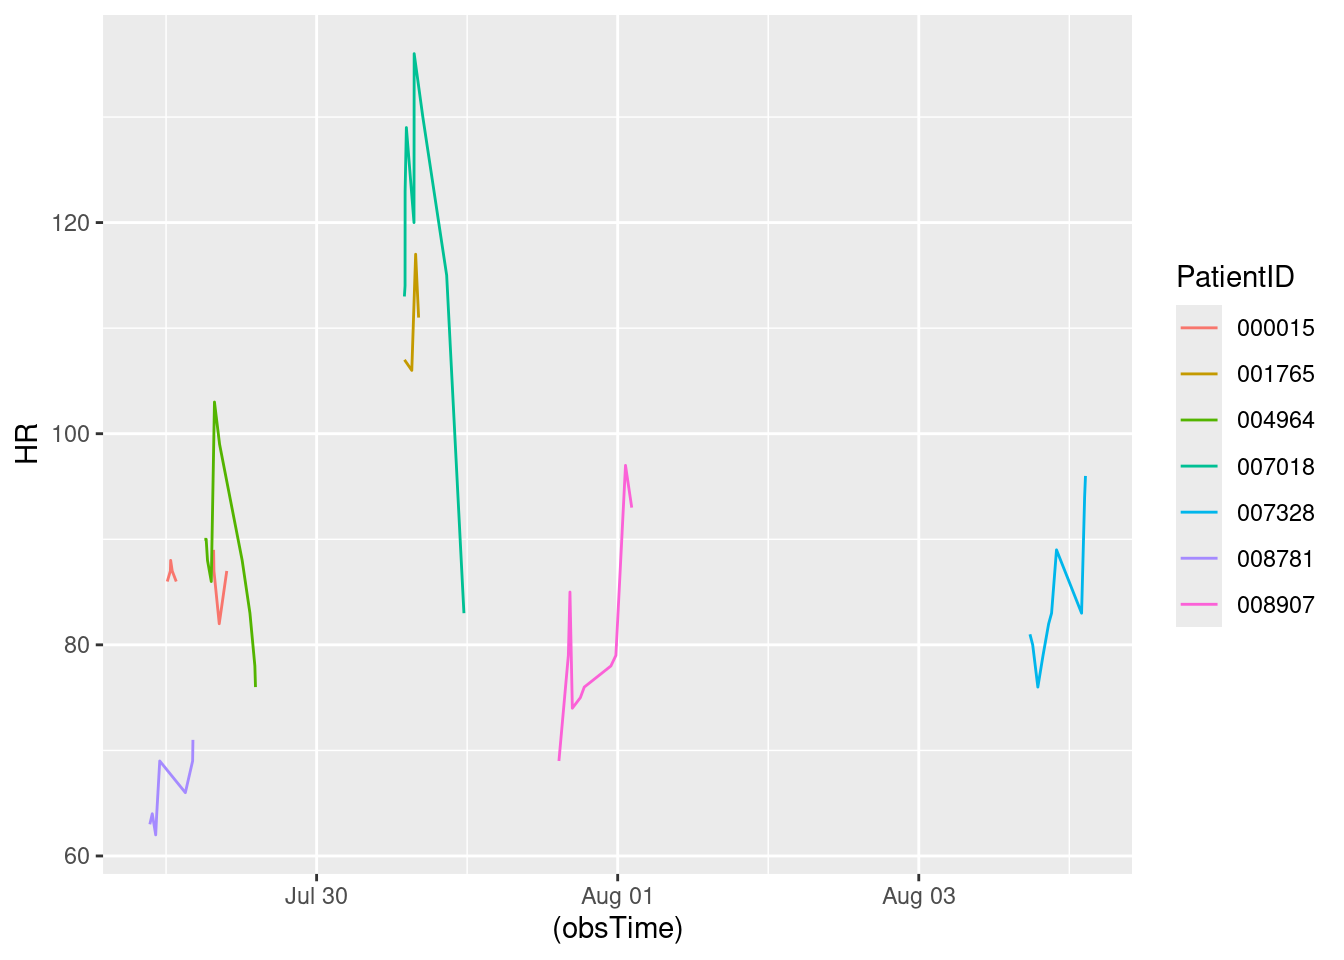
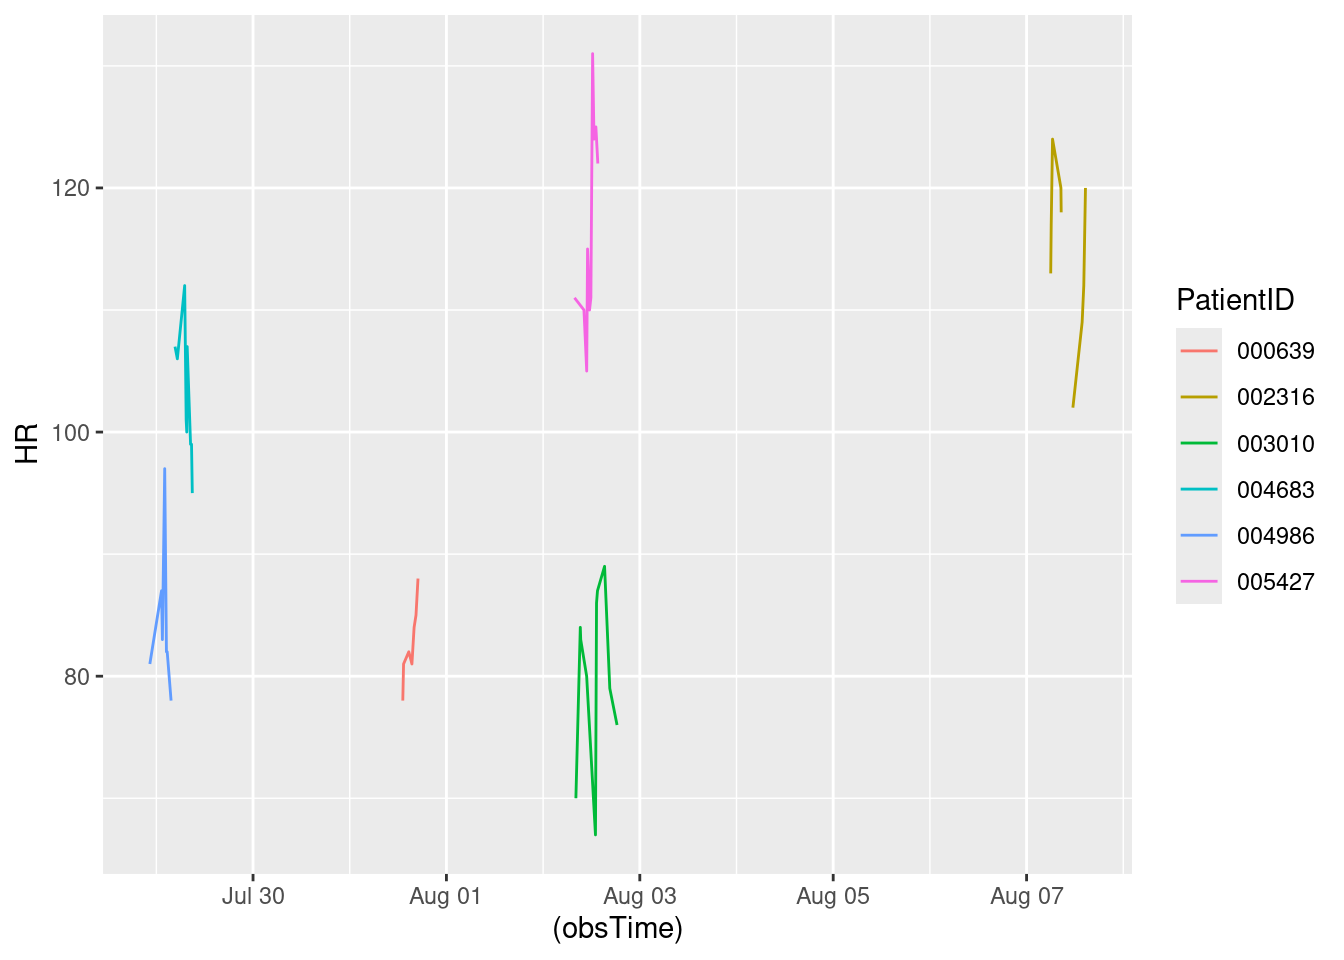
Updated report

diff --git a/HW7.html b/HW7.html
@@ -152,7 +152,7 @@ The following object is masked from 'package:purrr':
 </div>
 <div class="sourceCode cell-code" id="cb8"><pre class="sourceCode r code-with-copy"><code class="sourceCode r"><span id="cb8-1"><a href="#cb8-1" aria-hidden="true" tabindex="-1"></a><span class="fu">toc</span>()</span></code><button title="Copy to Clipboard" class="code-copy-button"><i class="bi"></i></button></pre></div>
 <div class="cell-output cell-output-stdout">
-<pre><code>15.933 sec elapsed</code></pre>
+<pre><code>17.711 sec elapsed</code></pre>
 </div>
 <div class="sourceCode cell-code" id="cb10"><pre class="sourceCode r code-with-copy"><code class="sourceCode r"><span id="cb10-1"><a href="#cb10-1" aria-hidden="true" tabindex="-1"></a><span class="fu">tic</span>()</span>
 <span id="cb10-2"><a href="#cb10-2" aria-hidden="true" tabindex="-1"></a>test1<span class="ot">=</span><span class="fu">makeSepsisDataset</span>(<span class="at">n=</span><span class="dv">50</span>,<span class="at">read_fn =</span> <span class="st">"read_delim"</span>)</span>
@@ -162,7 +162,7 @@ The following object is masked from 'package:purrr':
 </div>
 <div class="sourceCode cell-code" id="cb12"><pre class="sourceCode r code-with-copy"><code class="sourceCode r"><span id="cb12-1"><a href="#cb12-1" aria-hidden="true" tabindex="-1"></a><span class="fu">toc</span>()</span></code><button title="Copy to Clipboard" class="code-copy-button"><i class="bi"></i></button></pre></div>
 <div class="cell-output cell-output-stdout">
-<pre><code>11.175 sec elapsed</code></pre>
+<pre><code>9.018 sec elapsed</code></pre>
 </div>
 <div class="sourceCode cell-code" id="cb14"><pre class="sourceCode r code-with-copy"><code class="sourceCode r"><span id="cb14-1"><a href="#cb14-1" aria-hidden="true" tabindex="-1"></a><span class="fu">tic</span>()</span>
 <span id="cb14-2"><a href="#cb14-2" aria-hidden="true" tabindex="-1"></a>test1<span class="ot">=</span><span class="fu">makeSepsisDataset</span>(<span class="at">n=</span><span class="dv">100</span>,<span class="at">read_fn =</span> <span class="st">"fread"</span>)</span>
@@ -172,7 +172,7 @@ The following object is masked from 'package:purrr':
 </div>
 <div class="sourceCode cell-code" id="cb16"><pre class="sourceCode r code-with-copy"><code class="sourceCode r"><span id="cb16-1"><a href="#cb16-1" aria-hidden="true" tabindex="-1"></a><span class="fu">toc</span>()</span></code><button title="Copy to Clipboard" class="code-copy-button"><i class="bi"></i></button></pre></div>
 <div class="cell-output cell-output-stdout">
-<pre><code>27.548 sec elapsed</code></pre>
+<pre><code>32.165 sec elapsed</code></pre>
 </div>
 <div class="sourceCode cell-code" id="cb18"><pre class="sourceCode r code-with-copy"><code class="sourceCode r"><span id="cb18-1"><a href="#cb18-1" aria-hidden="true" tabindex="-1"></a><span class="fu">tic</span>()</span>
 <span id="cb18-2"><a href="#cb18-2" aria-hidden="true" tabindex="-1"></a>test1<span class="ot">=</span><span class="fu">makeSepsisDataset</span>(<span class="at">n=</span><span class="dv">100</span>,<span class="at">read_fn =</span> <span class="st">"read_delim"</span>)</span>
@@ -182,7 +182,7 @@ The following object is masked from 'package:purrr':
 </div>
 <div class="sourceCode cell-code" id="cb20"><pre class="sourceCode r code-with-copy"><code class="sourceCode r"><span id="cb20-1"><a href="#cb20-1" aria-hidden="true" tabindex="-1"></a><span class="fu">toc</span>()</span></code><button title="Copy to Clipboard" class="code-copy-button"><i class="bi"></i></button></pre></div>
 <div class="cell-output cell-output-stdout">
-<pre><code>22.013 sec elapsed</code></pre>
+<pre><code>16.296 sec elapsed</code></pre>
 </div>
 <div class="sourceCode cell-code" id="cb22"><pre class="sourceCode r code-with-copy"><code class="sourceCode r"><span id="cb22-1"><a href="#cb22-1" aria-hidden="true" tabindex="-1"></a><span class="fu">tic</span>()</span>
 <span id="cb22-2"><a href="#cb22-2" aria-hidden="true" tabindex="-1"></a>test1<span class="ot">=</span><span class="fu">makeSepsisDataset</span>(<span class="at">n=</span><span class="dv">500</span>,<span class="at">read_fn =</span> <span class="st">"fread"</span>)</span>
@@ -192,7 +192,7 @@ The following object is masked from 'package:purrr':
 </div>
 <div class="sourceCode cell-code" id="cb24"><pre class="sourceCode r code-with-copy"><code class="sourceCode r"><span id="cb24-1"><a href="#cb24-1" aria-hidden="true" tabindex="-1"></a><span class="fu">toc</span>()</span></code><button title="Copy to Clipboard" class="code-copy-button"><i class="bi"></i></button></pre></div>
 <div class="cell-output cell-output-stdout">
-<pre><code>137.456 sec elapsed</code></pre>
+<pre><code>153.811 sec elapsed</code></pre>
 </div>
 <div class="sourceCode cell-code" id="cb26"><pre class="sourceCode r code-with-copy"><code class="sourceCode r"><span id="cb26-1"><a href="#cb26-1" aria-hidden="true" tabindex="-1"></a><span class="fu">tic</span>()</span>
 <span id="cb26-2"><a href="#cb26-2" aria-hidden="true" tabindex="-1"></a>test1<span class="ot">=</span><span class="fu">makeSepsisDataset</span>(<span class="at">n=</span><span class="dv">500</span>,<span class="at">read_fn =</span> <span class="st">"read_delim"</span>)</span>
@@ -202,7 +202,7 @@ The following object is masked from 'package:purrr':
 </div>
 <div class="sourceCode cell-code" id="cb28"><pre class="sourceCode r code-with-copy"><code class="sourceCode r"><span id="cb28-1"><a href="#cb28-1" aria-hidden="true" tabindex="-1"></a><span class="fu">toc</span>()</span></code><button title="Copy to Clipboard" class="code-copy-button"><i class="bi"></i></button></pre></div>
 <div class="cell-output cell-output-stdout">
-<pre><code>109.927 sec elapsed</code></pre>
+<pre><code>81.092 sec elapsed</code></pre>
 </div>
 </div>
 <p>Problem 3: Speed reading</p>
@@ -244,7 +244,7 @@ dttm (1): obsTime
 <div class="sourceCode cell-code" id="cb35"><pre class="sourceCode r code-with-copy"><code class="sourceCode r"><span id="cb35-1"><a href="#cb35-1" aria-hidden="true" tabindex="-1"></a><span class="co">#Sys.Date()</span></span>
 <span id="cb35-2"><a href="#cb35-2" aria-hidden="true" tabindex="-1"></a><span class="fu">Sys.time</span>()</span></code><button title="Copy to Clipboard" class="code-copy-button"><i class="bi"></i></button></pre></div>
 <div class="cell-output cell-output-stdout">
-<pre><code>[1] "2024-07-28 21:24:49 UTC"</code></pre>
+<pre><code>[1] "2024-07-28 22:23:19 UTC"</code></pre>
 </div>
 <div class="sourceCode cell-code" id="cb37"><pre class="sourceCode r code-with-copy"><code class="sourceCode r"><span id="cb37-1"><a href="#cb37-1" aria-hidden="true" tabindex="-1"></a>dfnew<span class="ot">=</span>df <span class="sc">%&gt;%</span><span class="fu">subset</span>(SepsisLabel<span class="sc">==</span><span class="dv">1</span>)</span>
 <span id="cb37-2"><a href="#cb37-2" aria-hidden="true" tabindex="-1"></a></span>
@@ -259,26 +259,21 @@ dttm (1): obsTime
 <span id="cb37-11"><a href="#cb37-11" aria-hidden="true" tabindex="-1"></a></span>
 <span id="cb37-12"><a href="#cb37-12" aria-hidden="true" tabindex="-1"></a><span class="fu">print</span>(res)</span></code><button title="Copy to Clipboard" class="code-copy-button"><i class="bi"></i></button></pre></div>
 <div class="cell-output cell-output-stdout">
-<pre><code># A tibble: 7 × 7
-# Groups:   PatientID [7]
+<pre><code># A tibble: 6 × 7
+# Groups:   PatientID [6]
   PatientID ICULOS    HR  Temp  Resp SepsisLabel obsTime            
   &lt;chr&gt;      &lt;int&gt; &lt;int&gt; &lt;dbl&gt; &lt;int&gt;       &lt;int&gt; &lt;dttm&gt;             
-1 000015        13    87  36.7    13           1 2024-07-29 09:40:31
-2 001765        43   111  36.3    21           1 2024-07-30 16:15:42
-3 004964        18    76  NA      18           1 2024-07-29 14:15:17
-4 007018        51    83  NA       8           1 2024-07-30 23:29:07
-5 007328       150    96  NA      17           1 2024-08-04 02:34:32
-6 008781         7    71  NA      18           1 2024-07-29 04:16:58
-7 008907        77    93  NA      13           1 2024-08-01 02:14:16</code></pre>
+1 000639        67    88  NA      21           1 2024-07-31 16:56:38
+2 002316       233   120  NA      21           1 2024-08-07 14:36:57
+3 003010       116    76  36.5    19           1 2024-08-02 18:20:57
+4 004683        15    95  35.8    18           1 2024-07-29 08:55:30
+5 004986         6    78  NA      10           1 2024-07-29 03:39:25
+6 005427       112   122  38.9    34           1 2024-08-02 13:34:52</code></pre>
 </div>
 </div>
 <div class="cell">
 <div class="sourceCode cell-code" id="cb39"><pre class="sourceCode r code-with-copy"><code class="sourceCode r"><span id="cb39-1"><a href="#cb39-1" aria-hidden="true" tabindex="-1"></a>dfnew <span class="sc">%&gt;%</span></span>
 <span id="cb39-2"><a href="#cb39-2" aria-hidden="true" tabindex="-1"></a>  <span class="fu">ggplot</span>()<span class="sc">+</span><span class="fu">geom_line</span>(<span class="fu">aes</span>(<span class="at">y=</span>HR,<span class="at">x=</span>(obsTime),<span class="at">color=</span>PatientID))</span></code><button title="Copy to Clipboard" class="code-copy-button"><i class="bi"></i></button></pre></div>
-<div class="cell-output cell-output-stderr">
-<pre><code>Warning: Removed 6 rows containing missing values or values outside the scale range
-(`geom_line()`).</code></pre>
-</div>
 <div class="cell-output-display">
 <div>
 <figure class="figure">
@@ -291,7 +286,7 @@ dttm (1): obsTime
 <section id="display-the-most-recent-data" class="level2">
 <h2 class="anchored" data-anchor-id="display-the-most-recent-data">Display the most recent data</h2>
 <div class="cell">
-<div class="sourceCode cell-code" id="cb41"><pre class="sourceCode r code-with-copy"><code class="sourceCode r"><span id="cb41-1"><a href="#cb41-1" aria-hidden="true" tabindex="-1"></a>most_recent_data</span></code><button title="Copy to Clipboard" class="code-copy-button"><i class="bi"></i></button></pre></div>
+<div class="sourceCode cell-code" id="cb40"><pre class="sourceCode r code-with-copy"><code class="sourceCode r"><span id="cb40-1"><a href="#cb40-1" aria-hidden="true" tabindex="-1"></a>most_recent_data</span></code><button title="Copy to Clipboard" class="code-copy-button"><i class="bi"></i></button></pre></div>
 <div class="cell-output cell-output-stdout">
 <pre><code># A tibble: 50 × 7
 # Groups:   PatientID [50]
@@ -314,32 +309,32 @@ dttm (1): obsTime
 <section id="calculate-the-difference" class="level2">
 <h2 class="anchored" data-anchor-id="calculate-the-difference">Calculate the difference</h2>
 <div class="cell">
-<div class="sourceCode cell-code" id="cb43"><pre class="sourceCode r code-with-copy"><code class="sourceCode r"><span id="cb43-1"><a href="#cb43-1" aria-hidden="true" tabindex="-1"></a><span class="fu">library</span>(dplyr)</span>
-<span id="cb43-2"><a href="#cb43-2" aria-hidden="true" tabindex="-1"></a><span class="fu">library</span>(tidyr)</span>
-<span id="cb43-3"><a href="#cb43-3" aria-hidden="true" tabindex="-1"></a><span class="fu">library</span>(knitr)</span>
-<span id="cb43-4"><a href="#cb43-4" aria-hidden="true" tabindex="-1"></a>get_observation_data <span class="ot">&lt;-</span> <span class="cf">function</span>(data, n, column_suffix) {</span>
-<span id="cb43-5"><a href="#cb43-5" aria-hidden="true" tabindex="-1"></a>  data <span class="sc">%&gt;%</span></span>
-<span id="cb43-6"><a href="#cb43-6" aria-hidden="true" tabindex="-1"></a>    <span class="fu">group_by</span>(PatientID) <span class="sc">%&gt;%</span></span>
-<span id="cb43-7"><a href="#cb43-7" aria-hidden="true" tabindex="-1"></a>    <span class="fu">slice_max</span>(<span class="at">order_by =</span> obsTime, <span class="at">n =</span> n) <span class="sc">%&gt;%</span></span>
-<span id="cb43-8"><a href="#cb43-8" aria-hidden="true" tabindex="-1"></a>    <span class="fu">select</span>(<span class="sc">-</span><span class="fu">c</span>(ICULOS, SepsisLabel, obsTime)) <span class="sc">%&gt;%</span></span>
-<span id="cb43-9"><a href="#cb43-9" aria-hidden="true" tabindex="-1"></a>    <span class="fu">rename_at</span>(<span class="fu">vars</span>(HR, Temp, Resp),</span>
-<span id="cb43-10"><a href="#cb43-10" aria-hidden="true" tabindex="-1"></a>              <span class="fu">list</span>(<span class="sc">~</span><span class="fu">paste0</span>(., <span class="st">"_"</span>, column_suffix)))</span>
-<span id="cb43-11"><a href="#cb43-11" aria-hidden="true" tabindex="-1"></a>}</span>
-<span id="cb43-12"><a href="#cb43-12" aria-hidden="true" tabindex="-1"></a></span>
-<span id="cb43-13"><a href="#cb43-13" aria-hidden="true" tabindex="-1"></a></span>
-<span id="cb43-14"><a href="#cb43-14" aria-hidden="true" tabindex="-1"></a></span>
-<span id="cb43-15"><a href="#cb43-15" aria-hidden="true" tabindex="-1"></a></span>
-<span id="cb43-16"><a href="#cb43-16" aria-hidden="true" tabindex="-1"></a>last_obs <span class="ot">&lt;-</span> <span class="fu">get_observation_data</span>(new_data, <span class="dv">1</span>, <span class="st">"last"</span>)</span>
-<span id="cb43-17"><a href="#cb43-17" aria-hidden="true" tabindex="-1"></a>penultimate_obs <span class="ot">&lt;-</span> <span class="fu">get_observation_data</span>(new_data, <span class="dv">2</span>, <span class="st">"penult"</span>)</span>
-<span id="cb43-18"><a href="#cb43-18" aria-hidden="true" tabindex="-1"></a>joined_data <span class="ot">&lt;-</span> <span class="fu">full_join</span>(last_obs, penultimate_obs) <span class="sc">%&gt;%</span></span>
-<span id="cb43-19"><a href="#cb43-19" aria-hidden="true" tabindex="-1"></a>  <span class="fu">transmute</span>(PatientID,</span>
-<span id="cb43-20"><a href="#cb43-20" aria-hidden="true" tabindex="-1"></a>            <span class="st">`</span><span class="at">Temperature change</span><span class="st">`</span> <span class="ot">=</span> Temp_last <span class="sc">-</span> Temp_penult,</span>
-<span id="cb43-21"><a href="#cb43-21" aria-hidden="true" tabindex="-1"></a>            <span class="st">`</span><span class="at">Heart rate change</span><span class="st">`</span> <span class="ot">=</span> HR_last <span class="sc">-</span> HR_penult,</span>
-<span id="cb43-22"><a href="#cb43-22" aria-hidden="true" tabindex="-1"></a>            <span class="st">`</span><span class="at">Respiratory rate change</span><span class="st">`</span> <span class="ot">=</span> Resp_last <span class="sc">-</span> Resp_penult)</span></code><button title="Copy to Clipboard" class="code-copy-button"><i class="bi"></i></button></pre></div>
+<div class="sourceCode cell-code" id="cb42"><pre class="sourceCode r code-with-copy"><code class="sourceCode r"><span id="cb42-1"><a href="#cb42-1" aria-hidden="true" tabindex="-1"></a><span class="fu">library</span>(dplyr)</span>
+<span id="cb42-2"><a href="#cb42-2" aria-hidden="true" tabindex="-1"></a><span class="fu">library</span>(tidyr)</span>
+<span id="cb42-3"><a href="#cb42-3" aria-hidden="true" tabindex="-1"></a><span class="fu">library</span>(knitr)</span>
+<span id="cb42-4"><a href="#cb42-4" aria-hidden="true" tabindex="-1"></a>get_observation_data <span class="ot">&lt;-</span> <span class="cf">function</span>(data, n, column_suffix) {</span>
+<span id="cb42-5"><a href="#cb42-5" aria-hidden="true" tabindex="-1"></a>  data <span class="sc">%&gt;%</span></span>
+<span id="cb42-6"><a href="#cb42-6" aria-hidden="true" tabindex="-1"></a>    <span class="fu">group_by</span>(PatientID) <span class="sc">%&gt;%</span></span>
+<span id="cb42-7"><a href="#cb42-7" aria-hidden="true" tabindex="-1"></a>    <span class="fu">slice_max</span>(<span class="at">order_by =</span> obsTime, <span class="at">n =</span> n) <span class="sc">%&gt;%</span></span>
+<span id="cb42-8"><a href="#cb42-8" aria-hidden="true" tabindex="-1"></a>    <span class="fu">select</span>(<span class="sc">-</span><span class="fu">c</span>(ICULOS, SepsisLabel, obsTime)) <span class="sc">%&gt;%</span></span>
+<span id="cb42-9"><a href="#cb42-9" aria-hidden="true" tabindex="-1"></a>    <span class="fu">rename_at</span>(<span class="fu">vars</span>(HR, Temp, Resp),</span>
+<span id="cb42-10"><a href="#cb42-10" aria-hidden="true" tabindex="-1"></a>              <span class="fu">list</span>(<span class="sc">~</span><span class="fu">paste0</span>(., <span class="st">"_"</span>, column_suffix)))</span>
+<span id="cb42-11"><a href="#cb42-11" aria-hidden="true" tabindex="-1"></a>}</span>
+<span id="cb42-12"><a href="#cb42-12" aria-hidden="true" tabindex="-1"></a></span>
+<span id="cb42-13"><a href="#cb42-13" aria-hidden="true" tabindex="-1"></a></span>
+<span id="cb42-14"><a href="#cb42-14" aria-hidden="true" tabindex="-1"></a></span>
+<span id="cb42-15"><a href="#cb42-15" aria-hidden="true" tabindex="-1"></a></span>
+<span id="cb42-16"><a href="#cb42-16" aria-hidden="true" tabindex="-1"></a>last_obs <span class="ot">&lt;-</span> <span class="fu">get_observation_data</span>(new_data, <span class="dv">1</span>, <span class="st">"last"</span>)</span>
+<span id="cb42-17"><a href="#cb42-17" aria-hidden="true" tabindex="-1"></a>penultimate_obs <span class="ot">&lt;-</span> <span class="fu">get_observation_data</span>(new_data, <span class="dv">2</span>, <span class="st">"penult"</span>)</span>
+<span id="cb42-18"><a href="#cb42-18" aria-hidden="true" tabindex="-1"></a>joined_data <span class="ot">&lt;-</span> <span class="fu">full_join</span>(last_obs, penultimate_obs) <span class="sc">%&gt;%</span></span>
+<span id="cb42-19"><a href="#cb42-19" aria-hidden="true" tabindex="-1"></a>  <span class="fu">transmute</span>(PatientID,</span>
+<span id="cb42-20"><a href="#cb42-20" aria-hidden="true" tabindex="-1"></a>            <span class="st">`</span><span class="at">Temperature change</span><span class="st">`</span> <span class="ot">=</span> Temp_last <span class="sc">-</span> Temp_penult,</span>
+<span id="cb42-21"><a href="#cb42-21" aria-hidden="true" tabindex="-1"></a>            <span class="st">`</span><span class="at">Heart rate change</span><span class="st">`</span> <span class="ot">=</span> HR_last <span class="sc">-</span> HR_penult,</span>
+<span id="cb42-22"><a href="#cb42-22" aria-hidden="true" tabindex="-1"></a>            <span class="st">`</span><span class="at">Respiratory rate change</span><span class="st">`</span> <span class="ot">=</span> Resp_last <span class="sc">-</span> Resp_penult)</span></code><button title="Copy to Clipboard" class="code-copy-button"><i class="bi"></i></button></pre></div>
 <div class="cell-output cell-output-stderr">
 <pre><code>Joining with `by = join_by(PatientID)`</code></pre>
 </div>
-<div class="sourceCode cell-code" id="cb45"><pre class="sourceCode r code-with-copy"><code class="sourceCode r"><span id="cb45-1"><a href="#cb45-1" aria-hidden="true" tabindex="-1"></a><span class="fu">kable</span>(joined_data, <span class="at">caption =</span> <span class="st">"Patients' Recent Changes in Vital Stats"</span>)</span></code><button title="Copy to Clipboard" class="code-copy-button"><i class="bi"></i></button></pre></div>
+<div class="sourceCode cell-code" id="cb44"><pre class="sourceCode r code-with-copy"><code class="sourceCode r"><span id="cb44-1"><a href="#cb44-1" aria-hidden="true" tabindex="-1"></a><span class="fu">kable</span>(joined_data, <span class="at">caption =</span> <span class="st">"Patients' Recent Changes in Vital Stats"</span>)</span></code><button title="Copy to Clipboard" class="code-copy-button"><i class="bi"></i></button></pre></div>
 <div class="cell-output-display">
 <table class="caption-top table table-sm table-striped small">
 <caption>Patients’ Recent Changes in Vital Stats</caption>
